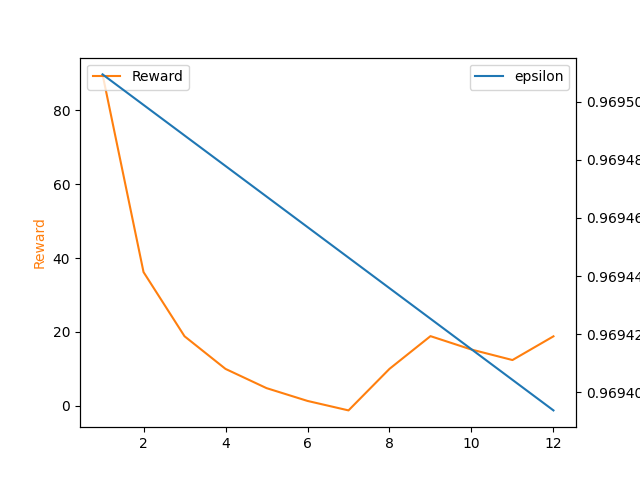
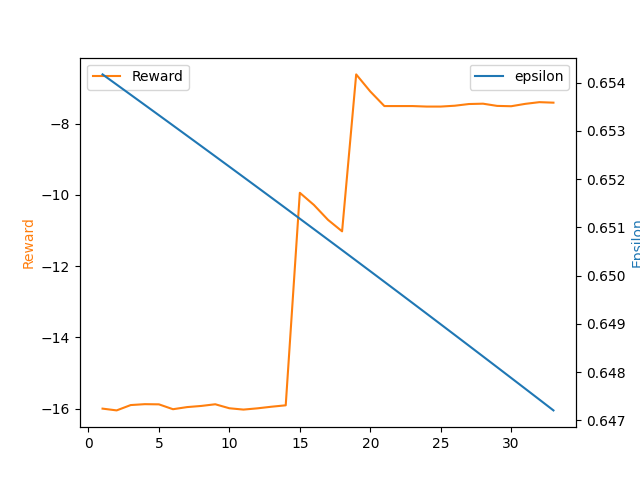
need to set new dest after pickup

diff --git a/sumo_mmrl/environment/vehicle.py b/sumo_mmrl/environment/vehicle.py
@@ -1,6 +1,6 @@
 """module stuff"""
 # import numpy as np
-import random
+# import random
 from ..connector.utility import Utility
 
 
@@ -115,25 +115,19 @@ class Vehicle:
 
         _extended_summary_
         """
-        # reservation = self.sumo.person.getTaxiReservations(0)
-        # reservation_id = reservation[0]
-        # self.sumo.vehicle.dispatchTaxi("1","0")
-        # print(reservation_id)
+        reservation = self.sumo.person.getTaxiReservations(0)
+        reservation_id = reservation[0]
+        self.sumo.vehicle.dispatchTaxi(self.vehicle_id,"0")
+        print(reservation_id)
 
-    def close(self):
-        """
-        close _summary_
 
-        _extended_summary_
-        """
-        self.sumo.close()
 
-    def random_relocate(self):
-        """
-        random_relocate _summary_
+    # def random_relocate(self):
+    #     """
+    #     random_relocate _summary_
 
-        _extended_summary_
-        """
-        new_lane = random.choice(list(self.index_dict.keys()))
-        self.sumo.vehicle.changeTarget(self.vehicle_id, edgeID=new_lane)
-        self.sumo.vehicle.moveTo(self.vehicle_id, new_lane + "_0", 5)
+    #     _extended_summary_
+    #     """
+    #     new_lane = random.choice(list(self.index_dict.keys()))
+    #     self.sumo.vehicle.changeTarget(self.vehicle_id, edgeID=new_lane)
+    #     self.sumo.vehicle.moveTo(self.vehicle_id, new_lane + "_0", 5)

diff --git a/sumo_mmrl/environment/person.py b/sumo_mmrl/environment/person.py
@@ -18,8 +18,10 @@ class Person:
         # new_lane = random.choice(list(self.index_dict.keys()))
         new_lane = list(self.index_dict.keys())[0]
         destination = random.choice(list(self.index_dict.keys()))
-        self.sumo.person.add(person_id, new_lane, 20)
-        self.sumo.person.appendDrivingStage(person_id, destination, lines="taxi")
+        self.sumo.person.add(person_id, "1w", 20)
+        self.sumo.person.appendDrivingStage(person_id, "24e", lines="taxi")
+        # self.sumo.person.add(person_id, new_lane, 20)
+        # self.sumo.person.appendDrivingStage(person_id, destination, lines="ANY")
 
     def location(self):
         """
@@ -41,19 +43,6 @@ class Person:
         _extended_summary_
         """
 
-    def set_pickup(self):
-        """
-        set_pickup _summary_
-
-        _extended_summary_
-        """
-
-    def pickup(self):
-        """
-        pickup _summary_
-
-        _extended_summary_
-        """
 
     def remove_person(self):
         """
@@ -64,11 +53,4 @@ class Person:
         self.sumo.person.remove(self.person_id)
         return
                 
-    def close(self):
-        """
-        close _summary_
-
-        _extended_summary_
-        """
-        self.sumo.close()
 

diff --git a/sumo_mmrl/environment/env.py b/sumo_mmrl/environment/env.py
@@ -127,6 +127,7 @@ class Basic:
         self.make_choice_flag = True
 
         self.choices = self.vehicle.get_out_dict()
+        # self.vehicle.pickup()
 
         # self.best_route=self.sumo.simulation.findRoute(self.vedge,self.pedge)
 
@@ -226,12 +227,15 @@ class Basic:
                 reward += 0.1
 
             if vedge == pedge:
-                self.done = True
-                self.person.remove_person()
-                self.p_index += 1
-                self.people.pop(0)
+                # self.done = True
+                # self.person.remove_person()
+                # self.p_index += 1
+                # self.people.pop(0)
+                self.vehicle.pickup()
+                print(self.sumo_con.busstopCheck())
                 # print("Pickup ", self.p_index)
                 reward += 45
+                self.vehicle.set_destination(self.sumo_con.busstopCheck()[0])
                 # if self.people:
                 #     self.person = self.people[0]
                 #     pedge = self.sumo.person.getRoadID(self.person.person_id)

diff --git a/sumo_mmrl/connector/connect.py b/sumo_mmrl/connector/connect.py
@@ -175,3 +175,15 @@ class SUMOConnection:
 
         return [out_dict, index_dict, edge_list, edge_position_dict]
 
+    def busstopCheck(self):
+        '''
+        busstopCheck _summary_
+
+        _extended_summary_
+        '''        
+        # getting all bus stops on the map\
+        lanes=[]
+        stops = self.sumo_.busstop.getIDList()
+        for stop in stops:
+            lanes.append(self.sumo_.busstop.getLaneID(stop))
+        return lanes

diff --git a/test.py b/test.py
@@ -1,12 +1,12 @@
 """ import stuff """
 from sumo_mmrl import Basic, Agent
 
-EPISODES = 100000
+EPISODES = 1000
 STEPS = 1000
 BATCH_SIZE = 64
 MIN_MEMORY = 1000
-EXPERIMENT_PATH = "Experiments/4x4"
-SUMOCONFIG = "/Nets/4x4.sumocfg"
+EXPERIMENT_PATH = "Experiments/3x3"
+SUMOCONFIG = "/Nets/3x3b.sumocfg"
 
 
 def main():
